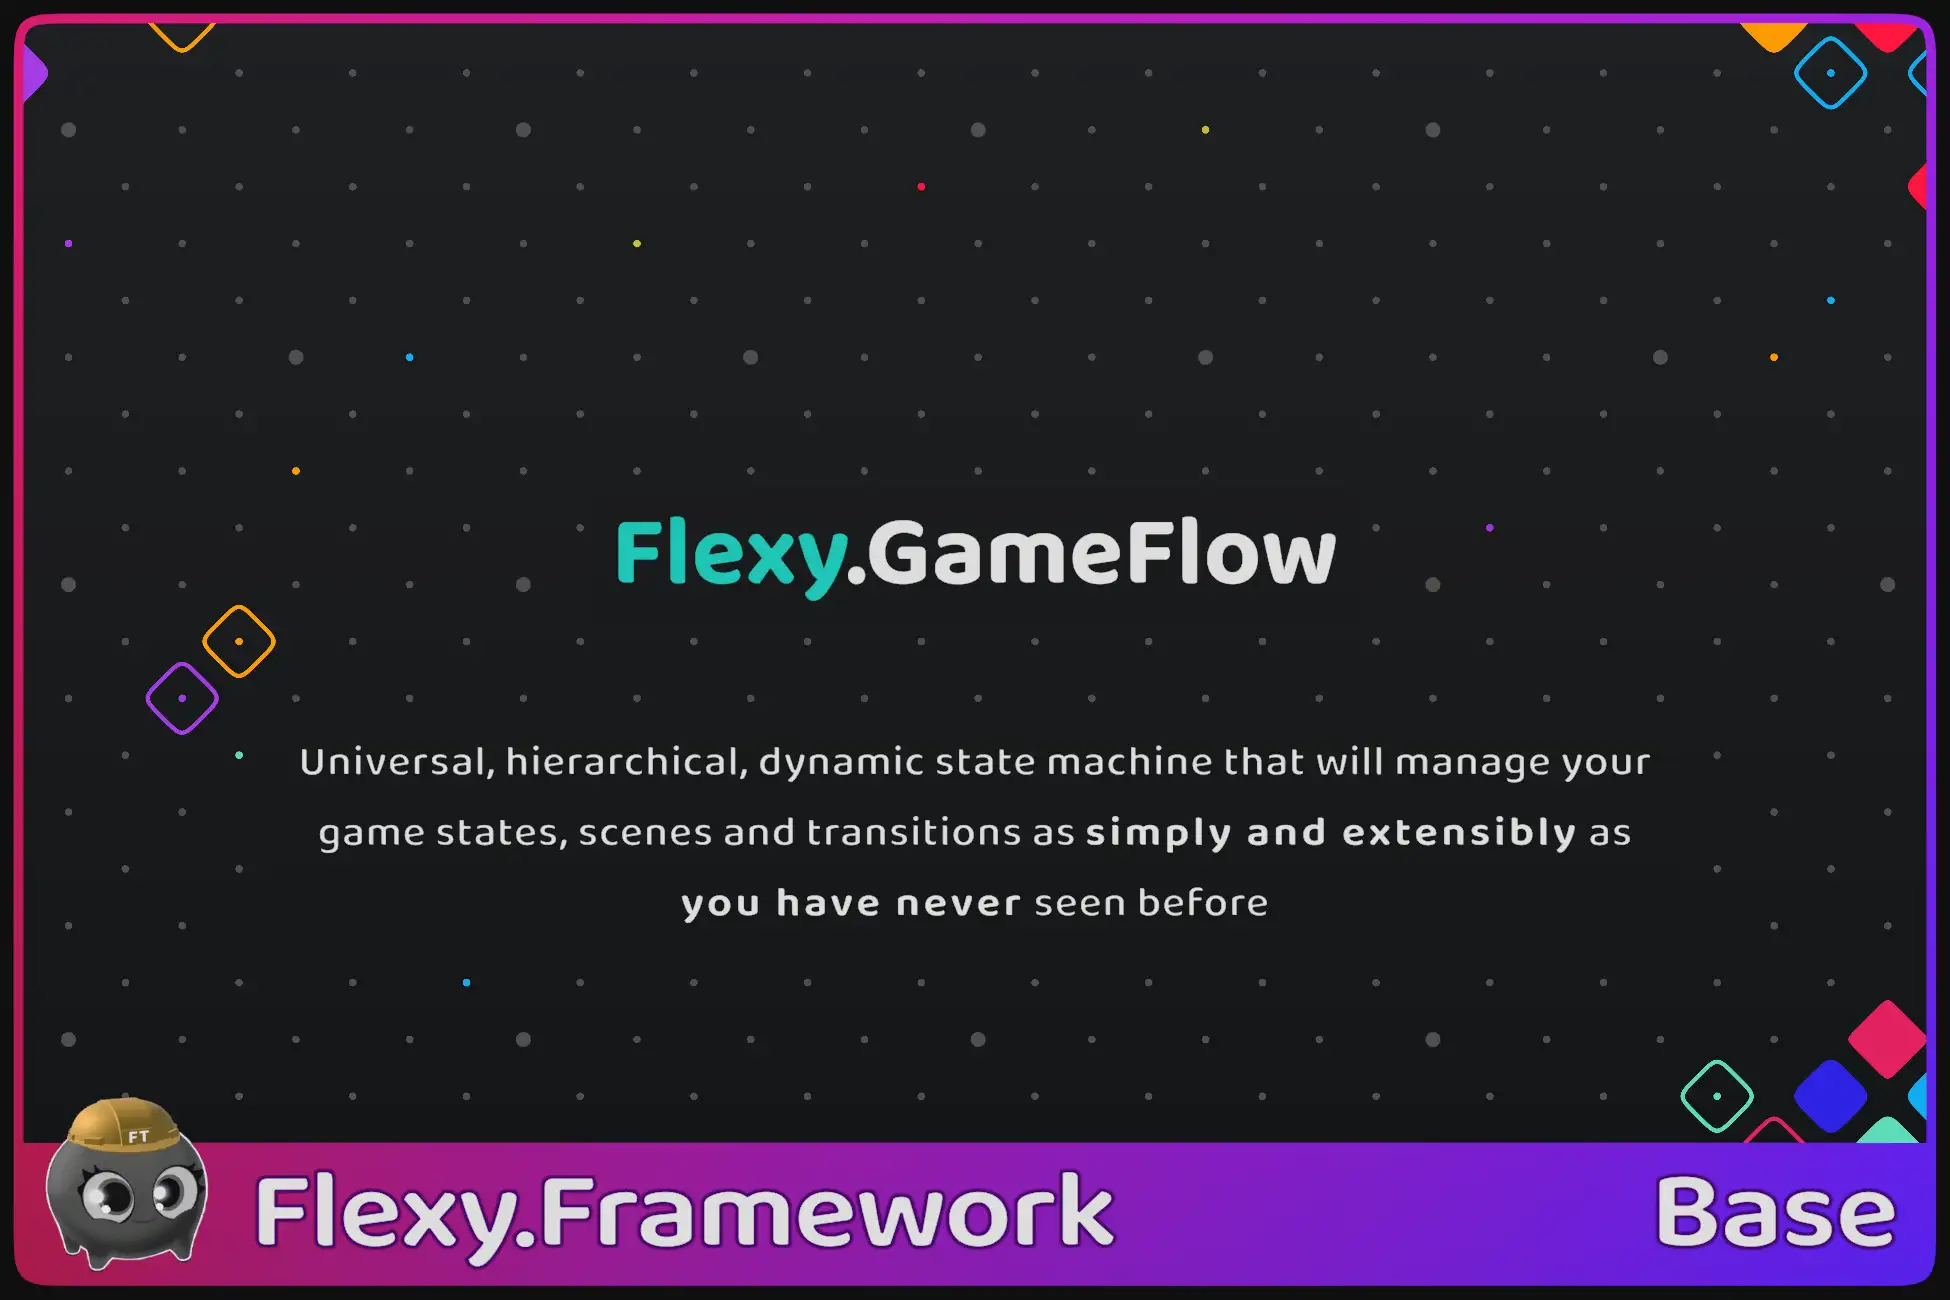
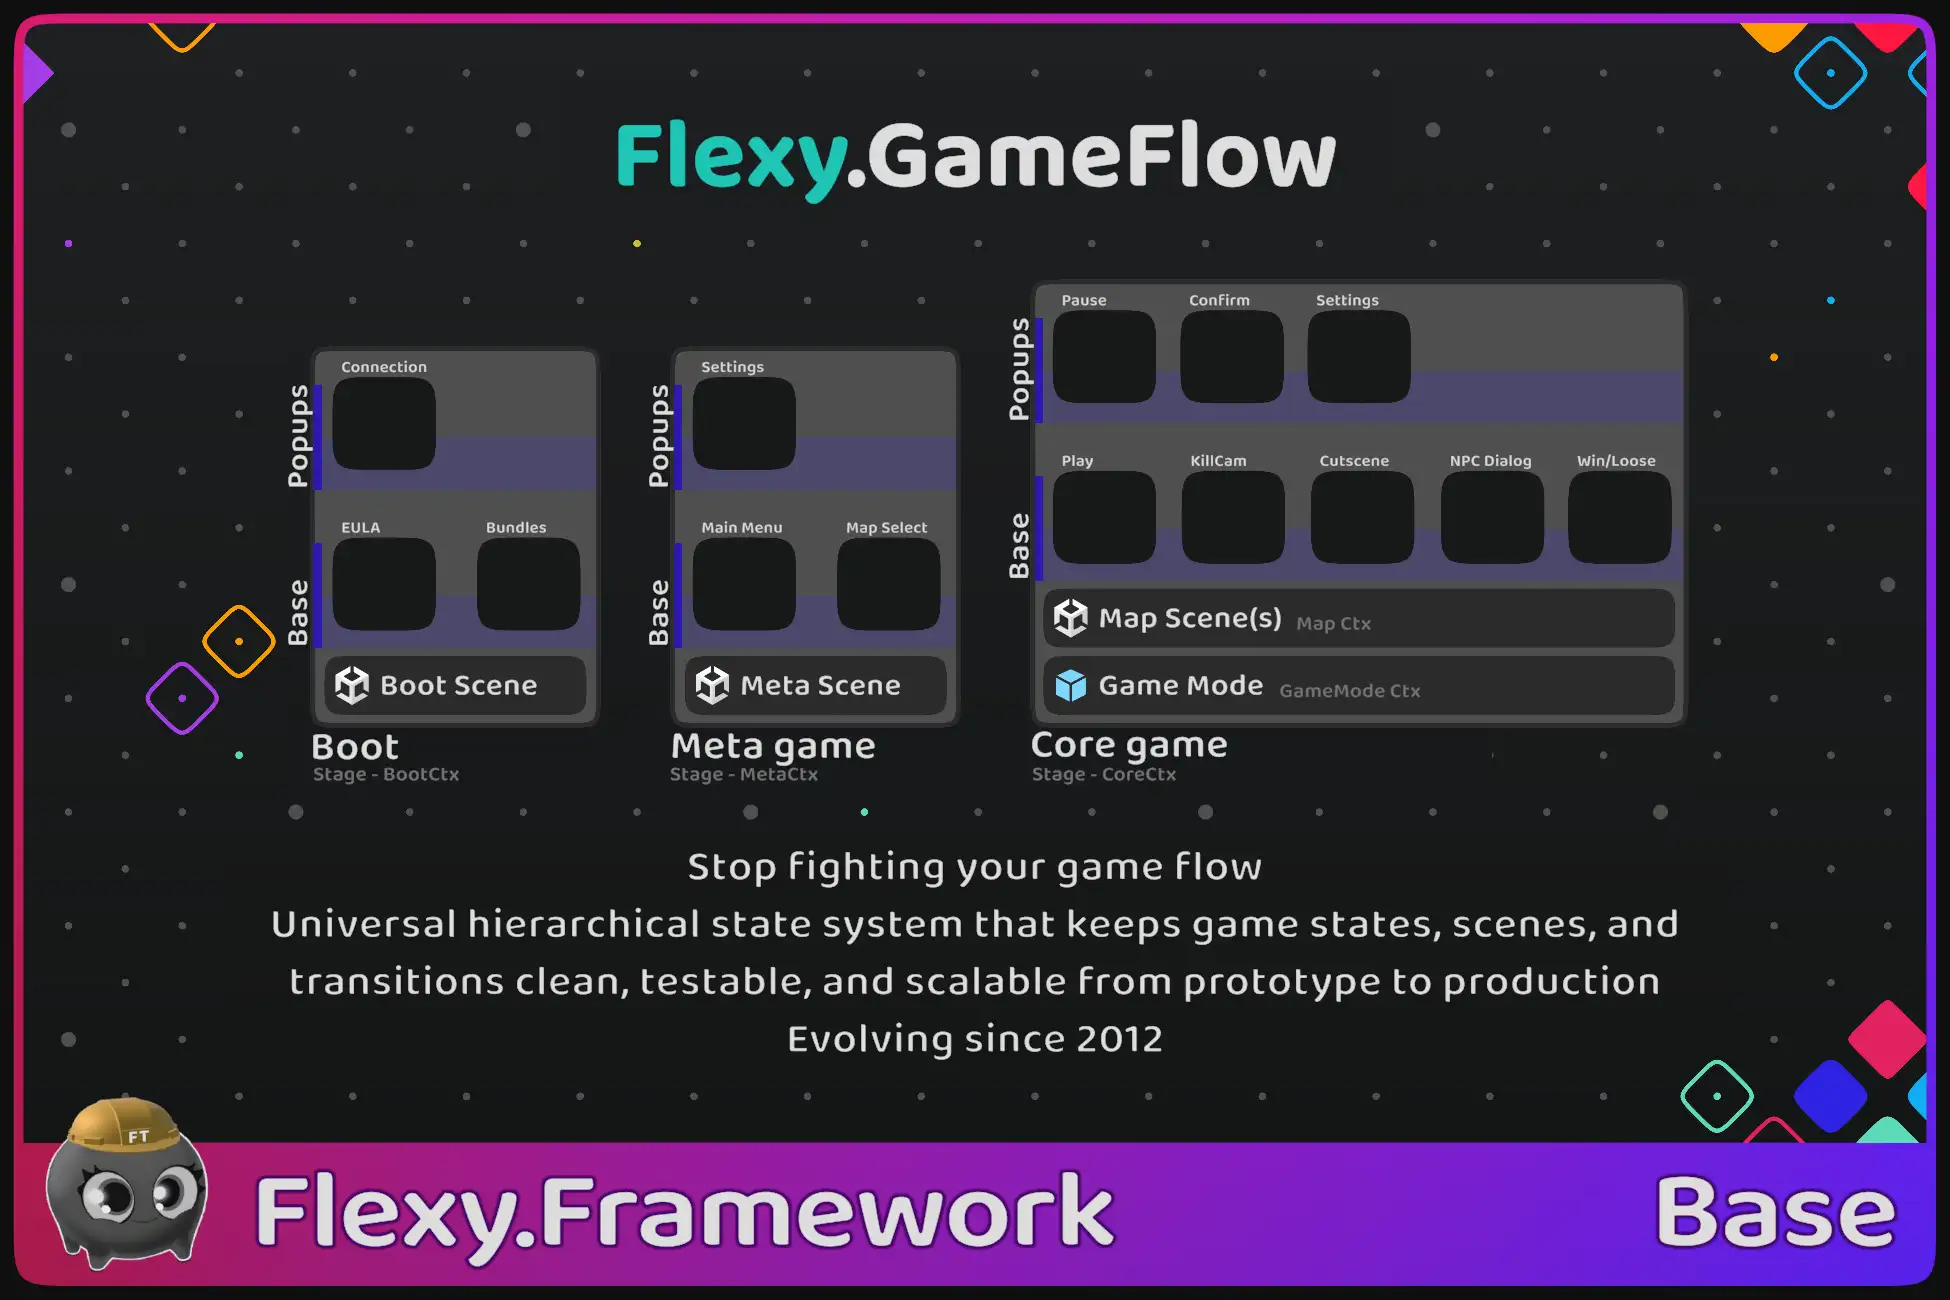
Change refined main readme of GameFlow

Changed region(s): [[0.1231, 0.2154, 0.8615, 0.8308], [0.3077, 0.0923, 0.7077, 0.1538]]

diff --git a/Framework/Flexy.GameFlow/Readme.md b/Framework/Flexy.GameFlow/Readme.md
@@ -5,9 +5,9 @@
 
 # Flexy.GameFlow
 
-Universal, hierarchical, dynamic state machine that will manage your  
-game states, scenes and transitions as <b>simply and extensibly</b> as  
-<b>you have never</b> seen before
+Stop fighting your game flow  
+Universal hierarchical state system for managing game states, scenes, and transitions - clean, testable, and scalable from prototype to production
+  
 
 [Github](https://github.com/FlexyTools/Flexy.GameFlow)
 <!-- | [Unity Forum](https://discussions.unity.com/t/a/1700923)
@@ -17,76 +17,222 @@ game states, scenes and transitions as <b>simply and extensibly</b> as
 | [Scripting Api](ScriptingApi/Readme.md)
 | [Showcase(Template project)](../../GameTemplates/Barley-Breaks/Readme.md)
 
+Production-proven architecture, evolving in real projects since 2012  
+Start small: install Lite, launch a state from any scene, and feel the difference in minutes — not days
+
+Design your game as explicit, testable states — from Boot and Meta to Core gameplay — so you can change and extend game flow safely, even late in development
+  
+
+## When game flow starts working against you
+
+**Architecture**
+- Game flow logic becomes messy and fragile as the project grows
+- Everything starts depending on everything, even when using DI
+- Adding a new game state creates dependency hell and unexpected side effects
+
+**Scalability**
+- Complex transition sequences are hard to build and reason about
+- Adding new state to game becomes harder and harder while project grows
+- Custom flow solutions break when requirements change
+
+**Development workflow**
+- Testing a specific state requires running the whole game
+- Passing data between states or scenes becomes cumbersome
+- Debugging transitions feels unpredictable
+
+
+## How Flexy.GameFlow solves this
+
+- **One State model for everything**  
+Gameplay, Meta flow, UI, cutscenes, and overlays are all game states
+
+
+- **Launch and test any game state instantly**  
+No game boot from the beginning
+
+
+- **Awaitable states and transitions**  
+Treat game flow like async code and await results cleanly
+
+
+- **Explicit data flow between states**  
+Pass data in and out without singletons or hidden dependencies
+
+
+- **Strong state isolation by design**  
+States own their lifecycle and cleanup
+
+
+- **Architecture that scales with complexity**  
+Same model works from prototype to production
+
+
+- **Framework-agnostic by intent**  
+No forced UI system, scene structure, or networking stack
+
 
 ## Preface
 
 Any Game is set of Game States that transition into each other  
 Big ones like Boot, Lobby(Metagame), Battle(Coregame)  
-And small ones like main menu, settings, loading, play state, pause state, cutscene, win\loose screen etc.
+And small ones like main menu, settings, loading, play state, pause state, cutscene, win\loose screen etc
 
-Hierarchical GameState machine is fundamental piece of every game  
-If you just thought about UI Manager no! It is not UI manager but Flexy.UI builds on top of it because loosing your UI is Big Fail for game 
+Hierarchical game state management is a fundamental part of every game  
+Flexy.GameFlow is a **Game State manager**, not a UI manager
 
-## Want to control game flow with ease but:
+UI exists because game states exist - Flexy.UI simply builds on top of this foundation
 
-- Don't want to write everything from scratch
-- Your code become messy very fast and sometimes state switch become nightmare
-- Adding new state to game become harder and harder while project grows
-- Your code looks like everything depend on everything even with DI
-- Hard to create unique state transition sequences
-- Hard to test, debug and maintain
-- Passing data between scenes is painful
+Flexy.GameFlow is intentionally agnostic to rendering, UI frameworks, and networking solutions,  
+allowing the same architecture to support singleplayer, multiplayer, coop, and split-screen projects without structural changes
 
 
-**Flexy.GameFlow** will manage game states and transitions seamlessly and effortless for you
-drastically simplifying management complexity:
+## Advanced Capabilities
 
-- Load game PlayStates and UIStates(screens) **on demand** with one line of code
-- Almost **zero** setup and glue code
-- Production-proven
-- Extensible
-- **Easy to use**
-- **Easy to clean up**
+### Architecture
+
+- Hierarchical game state composition  
+  Build game flow using nested and layered states instead of flat logic
+
+- Clear separation between state bearch/death, logic and view
+  State bearth/Death, logical Show/Hide and View are all separated and allow more fain grained control
+
+- Dedicated GameContext per major game state  
+  Each state has its own scoped data and dependencies
+
+- Transition model ready for networking  
+  State transitions are designed to work in singleplayer and multiplayer flows
 
 
-## Key Strengths
+### Workflow
 
-- Lite version is Free :)
-- Mature: First version was born in 2012
-- Universal: One component State for any state (Big, small, sub, UI, Play...)
-- Extensible: Various Show/Hide callbacks and actions to override or subscribe
-- Simple To Use: Once setup you care only about **one** class State 99% of time
-- Easy launch: Enter play mode from any scene
-- Launch from state: No need to launch entire game and go deep to your UI or Play State to test, debug or develop
-- Easy cleanup: Close and destory cleanup flow
-- Easy data exchange: Pass data to state and back with one line of code
-- Await Result: await for state result like popup answer or StatePlay results
-- Scene Friendly: States is responsible to load scenes. So you can load any scene from any state
-- Easy bootstrap: simple and short bootstrap script that use only public Api, so you can write your own
-- GameContext based: every big state have it own Flexy.GameContext by design
-- TDD-Friendly: Start from any scene and support of disabled domain reload
-- Separated View: Have 2 layers of operation Logical and View
-- Network ready: good fit for network state transitions
-- Robust: Correct State hierarchy populates upon entering play mode for each scene
+- Enter Play Mode from any scene  
+  Game flow initializes the correct state hierarchy before the first frame
 
-### Pro Features
+- Works with Domain Reload disabled  
+  No hidden static state or broken initialization
+
+- Clean spawn / destroy lifecycle  
+  States always shut down correctly, destroy and forget is safe by design
+
+- TDD-friendly by design  
+  Game states can be tested in isolation
+
+
+### Scene & Navigation
+
+- State-driven scene management  
+  Game states explicitly control which scenes are loaded and unloaded
+
+- Cross-scene references  
+  Reference object from other scenes to connect portals or other cases
+
+- Multi-scene maps and portals  
+  Supports complex maps split into multiple scenes
+
+- No need to add scenes to Build Settings  
+  Scenes & Maps collects automatically and sends to build (thanks to AssetRefs.Pileines)
+
+
+
+## Who this is for
+
+Flexy.GameFlow is designed for:
+- Unity developers and studios, from solo developers to large teams
+- Games that grow over time, from simple prototypes to complex projects
+- Games with multiple scenes, modes, or non-trivial UI flow
+- Developers who care about clean architecture, testability, and long-term maintainability
+
+
+## Who this is not for
+
+This asset may not be a good fit if:
+- You want a visual-only tool without writing code
+- Your game flow is simple and will not grow in complexity
+- You prefer ad-hoc managers and scene-based logic
+
+
+### Why not a classic FSM?
+
+Classic FSMs work well for isolated systems like AI or animation,
+but they do not scale to managing the entire game flow
+
+They break down when:
+- Game flow is spread across many scenes and managers
+- States need hierarchy and parallel layers
+- Transitions depend on context or async logic
+
+
+### Why Not Scene Managers?
+Scene managers focus on scenes as the primary unit of control
+This works early — but breaks down as projects grow
+
+Typical scene-centric problems:
+- Game logic becomes tightly coupled to scene structure
+- UI, gameplay, and meta flow are handled by separate systems
+- Testing a single flow requires loading the whole game
+- Late changes introduce fragile dependencies and regressions
+
+Flexy.GameFlow takes the opposite approach
+- Game States are first-class citizens
+- Scenes are an implementation detail, not the driver of logic
+- Gameplay states, overlays, and popups use the same state model
+- Flow is explicit, awaitable, and testable in isolation
+
+You do not manage scenes  
+You orchestrate game behavior — scenes simply follow
+
+
+### Why not custom state management?
+
+Custom solutions usually:
+- Start simple and rot over time
+- Become tightly coupled to scene structure
+- Are hard to test in isolation
+- Require full game boot to debug specific flows
+
+Flexy.GameFlow gives you:
+- A proven architecture without locking you into rigid patterns
+- Full control via public API
+- The freedom to extend, override, or replace parts as your project evolves
+- You get structure without rigidity.
+
+
+### Why Flexy.GameFlow specifically?
+
+- Evolving since 2012
+- Designed by a developer who builds full games, not just frameworks
+- Used as a foundation for other Flexy.Tools systems
+- Free Lite version to validate the approach before committing
+
+
+### GameFlow Pro Features
 - Robust: even more control and dynamic behaviour on enter play mode
 - Extensible: Various logical Open/Close callbacks to override or subscribe
 - Layers support: place substates on different layers in state e.g. popups layer 
-- Felxy transitions: Fully customizable, UniTask based logic of state transition behavior
+- Flexy transitions: Fully customizable, UniTask based logic of state transition behavior
 - Precise: await for exact moment where logical event is raised
 - Async preload: preload state views for instant transitions later (no load spikes)
-- Split screen ready: separate BigState for each screen
+- Split screen ready: separate BigStage for each screen
 
 
 [Start Guide](StartGuide.md) | [How It Works & Use Cases](HowItWorks_UseCases.md) | [Scripting Api](ScriptingApi/Readme.md) | [Showcase(Template project)](../GameTemplates.md)
 
+<details>
+  <summary>Click to expand!</summary>
+
+This content is hidden until you click the summary.
+You can even include:
+- Lists
+- Code blocks
+- Or images here.
+
+</details>
 
 ## Technical details
 
 - C# 10
 - Native C# Nullability annotations
-- Fast Enter Play Mode support
+- Domain Reload disabled friendly
 
 <br/>
 
